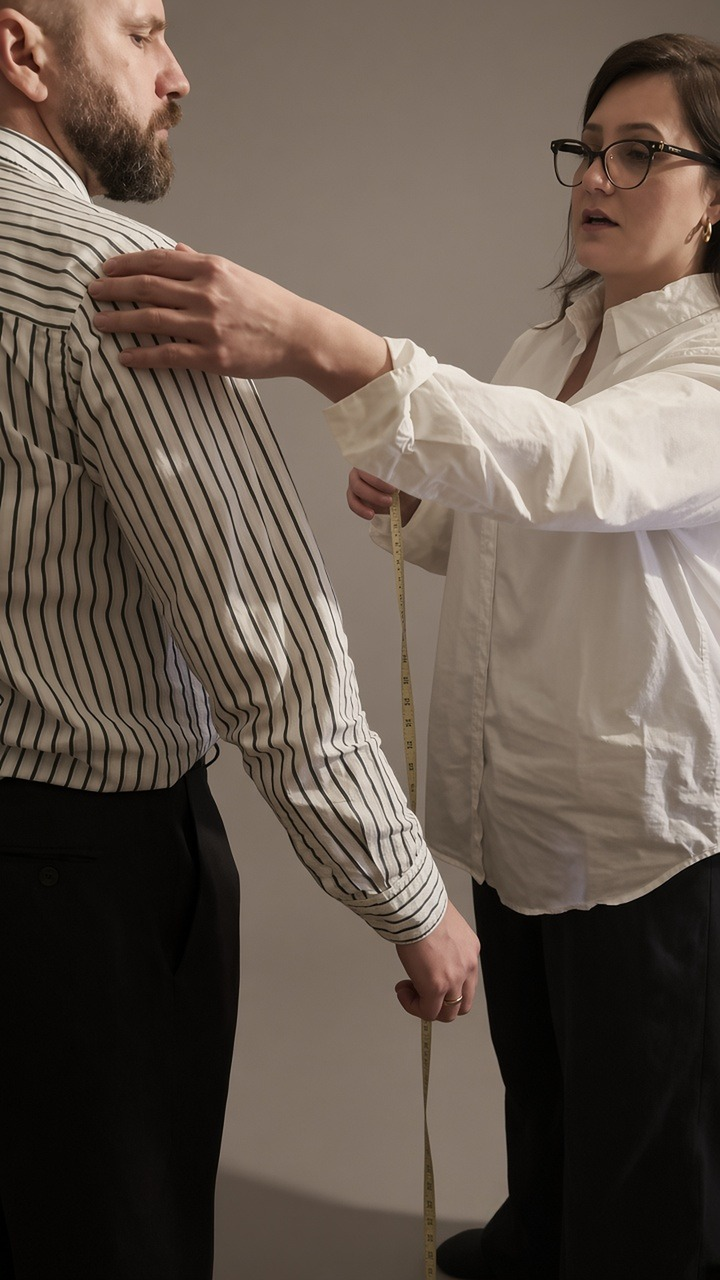
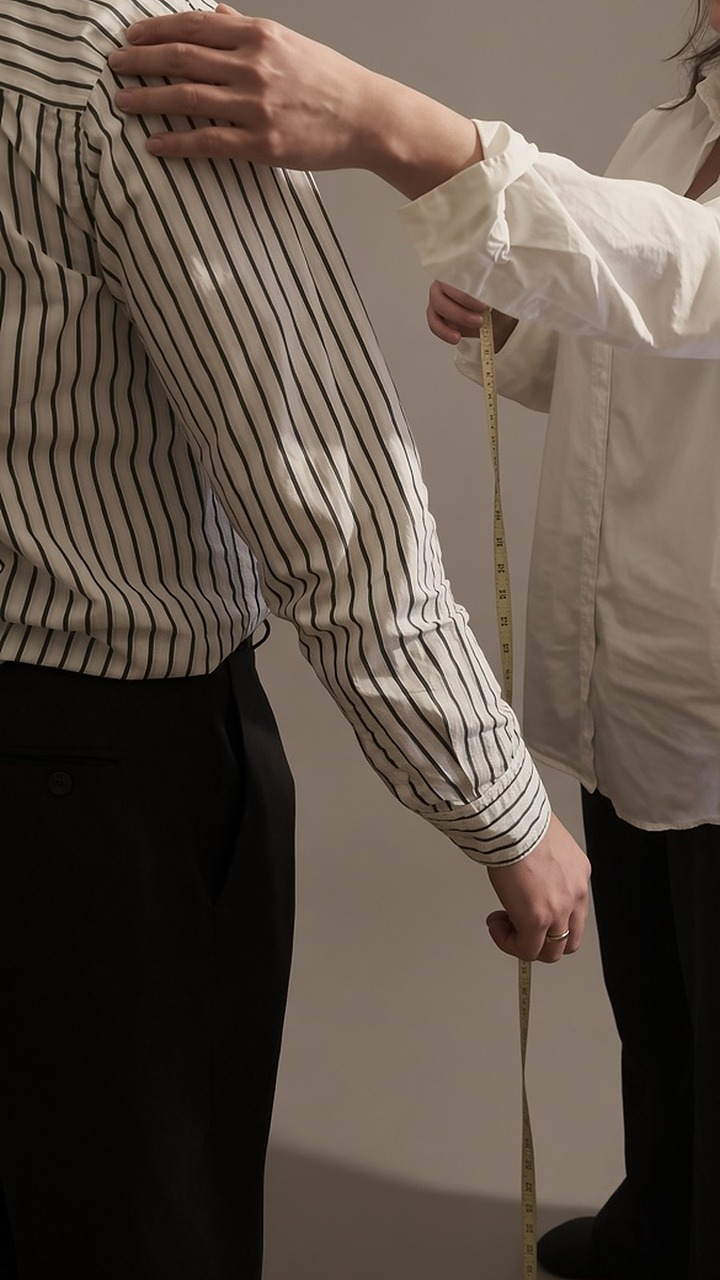
Utkast 2 (studio): takeaways uten ansikter — beskjæring av studiofotoet
Kapittel IV viser nå en 9:16-beskjæring av det samme stil A-bildet
(IMG_1551.MOV 1,3 s), uten Sheilas eller kundens ansikt. Ingen ny
AI-redigering. Den forrige versjonen ligger i 1b46cf1.

diff --git a/featured-sen-oslo.html b/featured-sen-oslo.html
@@ -153,7 +153,7 @@
 
     <section class="takeaways" aria-labelledby="tk">
       <div class="takeaways__inner">
-        <img src="assets/magasin/sen-oslo/sen-tilpasning-900.jpg" srcset="assets/magasin/sen-oslo/sen-tilpasning-900.jpg 720w, assets/magasin/sen-oslo/sen-tilpasning.jpg 1440w" sizes="(min-width: 980px) 42vw, 100vw" width="1440" height="2560" loading="lazy" decoding="async" alt="Sheila Brox justerer skulderen på kundens stripete skjorte under tilpasningen, med målebånd i hånden.">
+        <img src="assets/magasin/sen-oslo/sen-tilpasning-900.jpg" srcset="assets/magasin/sen-oslo/sen-tilpasning-900.jpg 720w, assets/magasin/sen-oslo/sen-tilpasning.jpg 1170w" sizes="(min-width: 980px) 42vw, 100vw" width="1170" height="2080" loading="lazy" decoding="async" alt="Hånd og målebånd ved skulderen på en stripete skjorte under tilpasningen.">
         <div class="takeaways__tekst">
           <span class="kap-nr" style="color:#D9A3A9">Kapittel IV</span>
           <h2 id="tk">Takeaways – fem ting vi tok <em>med oss</em></h2>

diff --git a/css/magasin.css b/css/magasin.css
@@ -125,7 +125,9 @@
 .takeaways { background: var(--espresso); color: var(--krem); }
 .takeaways__inner { display: grid; }
 @media (min-width: 980px) { .takeaways__inner { grid-template-columns: 5fr 7fr; } }
-.takeaways video, .takeaways img { display: block; width: 100%; height: 100%; object-fit: cover; aspect-ratio: 9 / 16; max-height: 100svh; }
+.takeaways video, .takeaways img { display: block; width: 100%; height: 100%; object-fit: cover; aspect-ratio: 9 / 16; max-height: calc(100svh - 64px); }
+@media (min-width: 880px) { .takeaways video, .takeaways img { max-height: calc(100svh - 80px); } }
+.takeaways img { object-position: 50% 0; }
 .takeaways__tekst { padding: clamp(3.5rem, 9vw, 6.5rem) var(--pad); align-self: center; }
 .takeaways__boks { border: 1px solid rgba(244,239,230,.35); padding: clamp(1.5rem, 4vw, 2.75rem); margin-top: 2rem; }
 .takeaways h2 { font-size: clamp(2.2rem, 6vw, 3.8rem); }
